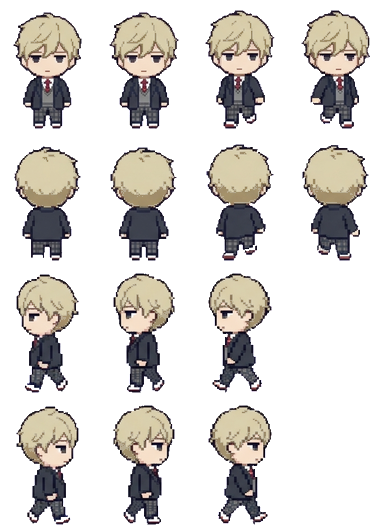
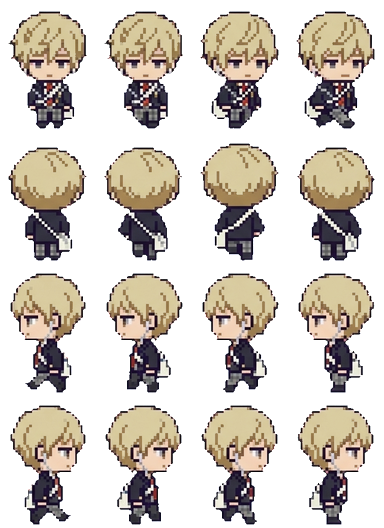
Redraw Futami Shun in Izumi's art style
Claude-Session: https://claude.ai/code/session_01KaPsBYLrtbRfMYNG2xeBCK

diff --git a/docs/app.js b/docs/app.js
@@ -75,7 +75,7 @@ function spr(cat, k, col, sc) {
   return `<div class="clip" style="width:${it[2] * sc}px;height:${it[3] * sc}px;POS"><img class="px" src="assets/decor/${cat}.png" alt="" style="width:${S.sw * sc}px;height:${S.sh * sc}px;margin-left:${-col * S.cw * sc}px;margin-top:${-i * S.ch * sc}px"></div>`;
 }
 const icon = (k, sz) => `<span class="itm" style="width:${sz}px;height:${sz}px"><img class="px" src="assets/ui/items.png" alt="" style="width:${IT.length * sz}px;height:${sz}px;margin-left:${-ITM[k].i * sz}px"></span>`;
-const face = (id, w) => { const s = w / 96; return `<img class="px" src="assets/ch/${id}.webp?v=31" alt="" style="position:absolute;width:${384 * s}px;height:${528 * s}px;left:${-(96 * s - w) / 2}px;top:0;max-width:none">`; };
+const face = (id, w) => { const s = w / 96; return `<img class="px" src="assets/ch/${id}.webp?v=32" alt="" style="position:absolute;width:${384 * s}px;height:${528 * s}px;left:${-(96 * s - w) / 2}px;top:0;max-width:none">`; };
 
 // ---------- 저장 ----------
 let fb = null, user = null, S = null, saveT = null;
@@ -143,7 +143,7 @@ function sleepHTML(id, r, dy) {
   const pos = r.a && r.a[0] === 'bed' ? 'left:3%;bottom:20%' : r.b && r.b[0] === 'bed' ? 'right:3%;bottom:20%' : 'left:calc(50% - 44px);bottom:6%';
   const s = 36 / 96;
   return `<div style="position:absolute;width:88px;height:56px;${pos};z-index:${dy ? 4 : 5};${dy ? `transform:translate(12px,${dy}px)` : ''}"><div style="position:absolute;inset:0;filter:brightness(.22)">
-    <div style="position:absolute;left:11px;top:1px;width:36px;height:50px;overflow:hidden;transform:rotate(-90deg)"><img class="px" src="assets/ch/${id}.webp?v=31" alt="" style="width:${384 * s}px;height:${528 * s}px;max-width:none;margin-top:${-132 * s}px"></div>
+    <div style="position:absolute;left:11px;top:1px;width:36px;height:50px;overflow:hidden;transform:rotate(-90deg)"><img class="px" src="assets/ch/${id}.webp?v=32" alt="" style="width:${384 * s}px;height:${528 * s}px;max-width:none;margin-top:${-132 * s}px"></div>
     <div style="position:absolute;left:19px;top:19px;width:67px;height:29px;border:2px solid var(--ink);border-radius:8px 6px 4px 4px;background:#8ccff5;background-image:repeating-linear-gradient(90deg,transparent 0 10px,rgba(255,255,255,.5) 10px 13px)"></div></div>
     ${dy ? '' : '<span class="emo" style="left:8px;top:-22px;color:#5b6bd6">Z z z</span>'}</div>`;
 }
@@ -153,8 +153,8 @@ function roomHTML(id, o, scale) {
     <div class="floor" style="background-color:${PAL[r.fc][1]};background-image:${tileUrl('floor', r.fl)}"></div>
     ${slot('deco', r.dc, 'left:6%;top:6%')}${slot('furn', r.a, 'left:3%;bottom:20%')}${slot('furn', r.b, 'right:3%;bottom:20%')}${slot('prop', r.pr, 'left:28%;bottom:4%;z-index:2')}
     ${id && o.sleeping && g ? sleepHTML(g, r, -16) : ''}${id && o.sleeping ? sleepHTML(id, r) : ''}${id && o.job ? `<div style="position:absolute;left:50%;top:38%;transform:translateX(-50%);z-index:5;background:#fff;border:3px solid var(--ink);border-radius:10px;padding:6px 10px;font-size:11px;text-align:center;line-height:1.5"><img src="assets/ui/ic_job.png" alt="" style="width:18px;vertical-align:-4px"> ${WORK[id] ? WORK[id][1] : esc(JOB_NAME[id]) + ' 알바 중'}${g ? `<br><small>${esc(nameOf(g))}도 같이</small>` : ''}<br><b id="jobleft">${timeLeft(o.job.until)}</b></div>` : ''}
-    ${id ? `<div class="shadow" id="shd" ${o.sleeping || o.job ? 'style="display:none"' : ''}></div><div class="man" id="man" ${o.sleeping || o.job ? 'style="display:none"' : ''}><img class="px" src="assets/ch/${id}.webp?v=31" alt="${esc(nameOf(id))}"></div><span class="emo" id="emo" hidden></span><span class="mumble" id="mum" hidden></span>` : ''}
-    ${g ? `<div class="shadow" id="gshd" ${hideG}></div><div class="man" id="gman" ${hideG}><img class="px" src="assets/ch/${g}.webp?v=31" alt="${esc(nameOf(g))}"></div><span class="emo" id="gemo" hidden></span><span class="mumble gmum" id="gmum" hidden></span>` : ''}
+    ${id ? `<div class="shadow" id="shd" ${o.sleeping || o.job ? 'style="display:none"' : ''}></div><div class="man" id="man" ${o.sleeping || o.job ? 'style="display:none"' : ''}><img class="px" src="assets/ch/${id}.webp?v=32" alt="${esc(nameOf(id))}"></div><span class="emo" id="emo" hidden></span><span class="mumble" id="mum" hidden></span>` : ''}
+    ${g ? `<div class="shadow" id="gshd" ${hideG}></div><div class="man" id="gman" ${hideG}><img class="px" src="assets/ch/${g}.webp?v=32" alt="${esc(nameOf(g))}"></div><span class="emo" id="gemo" hidden></span><span class="mumble gmum" id="gmum" hidden></span>` : ''}
     ${o.sleeping ? `<div class="night"></div><div class="sleepleft">쿨쿨 · 일어나기까지 <b id="sleepleft">${timeLeft(wakeAt(o)).replace(' 남음', '')}</b></div>` : ''}
   </div>`;
 }
@@ -167,7 +167,7 @@ function meterHTML(o) {
 const ic = (act, img, label, pressed) => `<button class="ic" data-act="${act}" ${pressed ? 'aria-pressed="true"' : ''}><img src="assets/ui/ic_${img}.png?v=2" alt="">${label}</button>`;
 
 let dropStyle = null; const cheat = {};
-const APP_V = 103, COUPONS = { NINOGUYA: 3000 };
+const APP_V = 104, COUPONS = { NINOGUYA: 3000 };
 // 쿠폰 입력 정리: 한글 자판 상태로 친 글자(ㅜㅑㅜㅐ혀ㅛㅁ)도 영어 자판 글자로 바꾸고, 대소문자·띄어쓰기·마침표는 무시해요
 const KEY = { ㄱ: 'r', ㄲ: 'R', ㄴ: 's', ㄷ: 'e', ㄸ: 'E', ㄹ: 'f', ㅁ: 'a', ㅂ: 'q', ㅃ: 'Q', ㅅ: 't', ㅆ: 'T', ㅇ: 'd', ㅈ: 'w', ㅉ: 'W', ㅊ: 'c', ㅋ: 'z', ㅌ: 'x', ㅍ: 'v', ㅎ: 'g',
   ㅏ: 'k', ㅐ: 'o', ㅑ: 'i', ㅒ: 'O', ㅓ: 'j', ㅔ: 'p', ㅕ: 'u', ㅖ: 'P', ㅗ: 'h', ㅘ: 'hk', ㅙ: 'ho', ㅚ: 'hl', ㅛ: 'y', ㅜ: 'n', ㅝ: 'nj', ㅞ: 'np', ㅟ: 'nl', ㅠ: 'b', ㅡ: 'm', ㅢ: 'ml', ㅣ: 'l',
@@ -407,7 +407,7 @@ function startTrip(k) {
   if (tg) lines[1] = `${nameOf(tg)}: ${withHim(sub(pick(GLX(tg).trip), o, c.n), tg)}`;
   const n = (FR[id] || [4, 4, 4, 4])[3], el = document.createElement('div'); el.className = 'tripview';
   el.innerHTML = `<div class="tsay"> </div><div class="tstage" style="background-image:url(assets/travel/${k}.png?v=2)"><div class="tplace">${esc(c.n)}</div>
-    <div class="twalker"><img class="px" src="assets/ch/${id}.webp?v=31" alt=""></div>${tg ? `<div class="twalker tgirl"><img class="px" src="assets/ch/${tg}.webp?v=31" alt=""></div>` : ''}<span class="emo tjoy">♪</span></div>
+    <div class="twalker"><img class="px" src="assets/ch/${id}.webp?v=32" alt=""></div>${tg ? `<div class="twalker tgirl"><img class="px" src="assets/ch/${tg}.webp?v=32" alt=""></div>` : ''}<span class="emo tjoy">♪</span></div>
     <div class="tbar"><i></i></div><button class="btn white tskip" data-tskip="1">바로 돌아오기</button>`;
   document.body.appendChild(el);
   const gimg = el.querySelector('.tgirl img'), gn = tg ? (FR[tg] || [4, 4, 4, 4])[3] : 1;
@@ -636,7 +636,7 @@ setInterval(() => { if (S && user) { tickTime(); save(); } }, 60000);
     if (nv > APP_V && !location.search.includes('u=' + nv)) { location.replace(location.pathname + '?u=' + nv); return; }
   } catch { }
   app.innerHTML = '<div class="start"><div class="egg"><div class="scr"></div></div><div class="note">불러오는 중....</div></div>';
-  const [c, t, f, it, mu, ct, tv, gl, sts] = await Promise.all(['data/chars.json', 'data/talk.json', 'data/frames.json', 'data/items.json', 'data/mumble.json', 'data/countries.json', 'data/travel.json', 'data/girls.json', 'data/sets.json'].map(u => fetch(u + '?v=103').then(r => r.ok ? r.json() : {})));
+  const [c, t, f, it, mu, ct, tv, gl, sts] = await Promise.all(['data/chars.json', 'data/talk.json', 'data/frames.json', 'data/items.json', 'data/mumble.json', 'data/countries.json', 'data/travel.json', 'data/girls.json', 'data/sets.json'].map(u => fetch(u + '?v=104').then(r => r.ok ? r.json() : {})));
   CH = c; CHM = Object.fromEntries(c.map(x => [x.id, x])); TALK = t; FR = f; IT = it; ITM = Object.fromEntries(it.map(x => [x.k, x])); MUM = mu; CTRY = ct; TRV = tv; GL = Array.isArray(gl) ? gl : []; SETS = Array.isArray(sts) ? sts : []; GLM = Object.fromEntries(GL.map(x => [x.id, x]));
   try { await initFirebase(); } catch (e) { console.warn('Firebase 연결 실패, 기기 저장으로', e); fb = null; }
   if (fb) {

diff --git a/docs/index.html b/docs/index.html
@@ -18,6 +18,6 @@
 <main id="app" aria-live="polite"></main>
 <div id="toast" role="status" hidden></div>
 <script src="firebase-config.js?v=3"></script>
-<script type="module" src="app.js?v=103"></script>
+<script type="module" src="app.js?v=104"></script>
 </body>
 </html>
